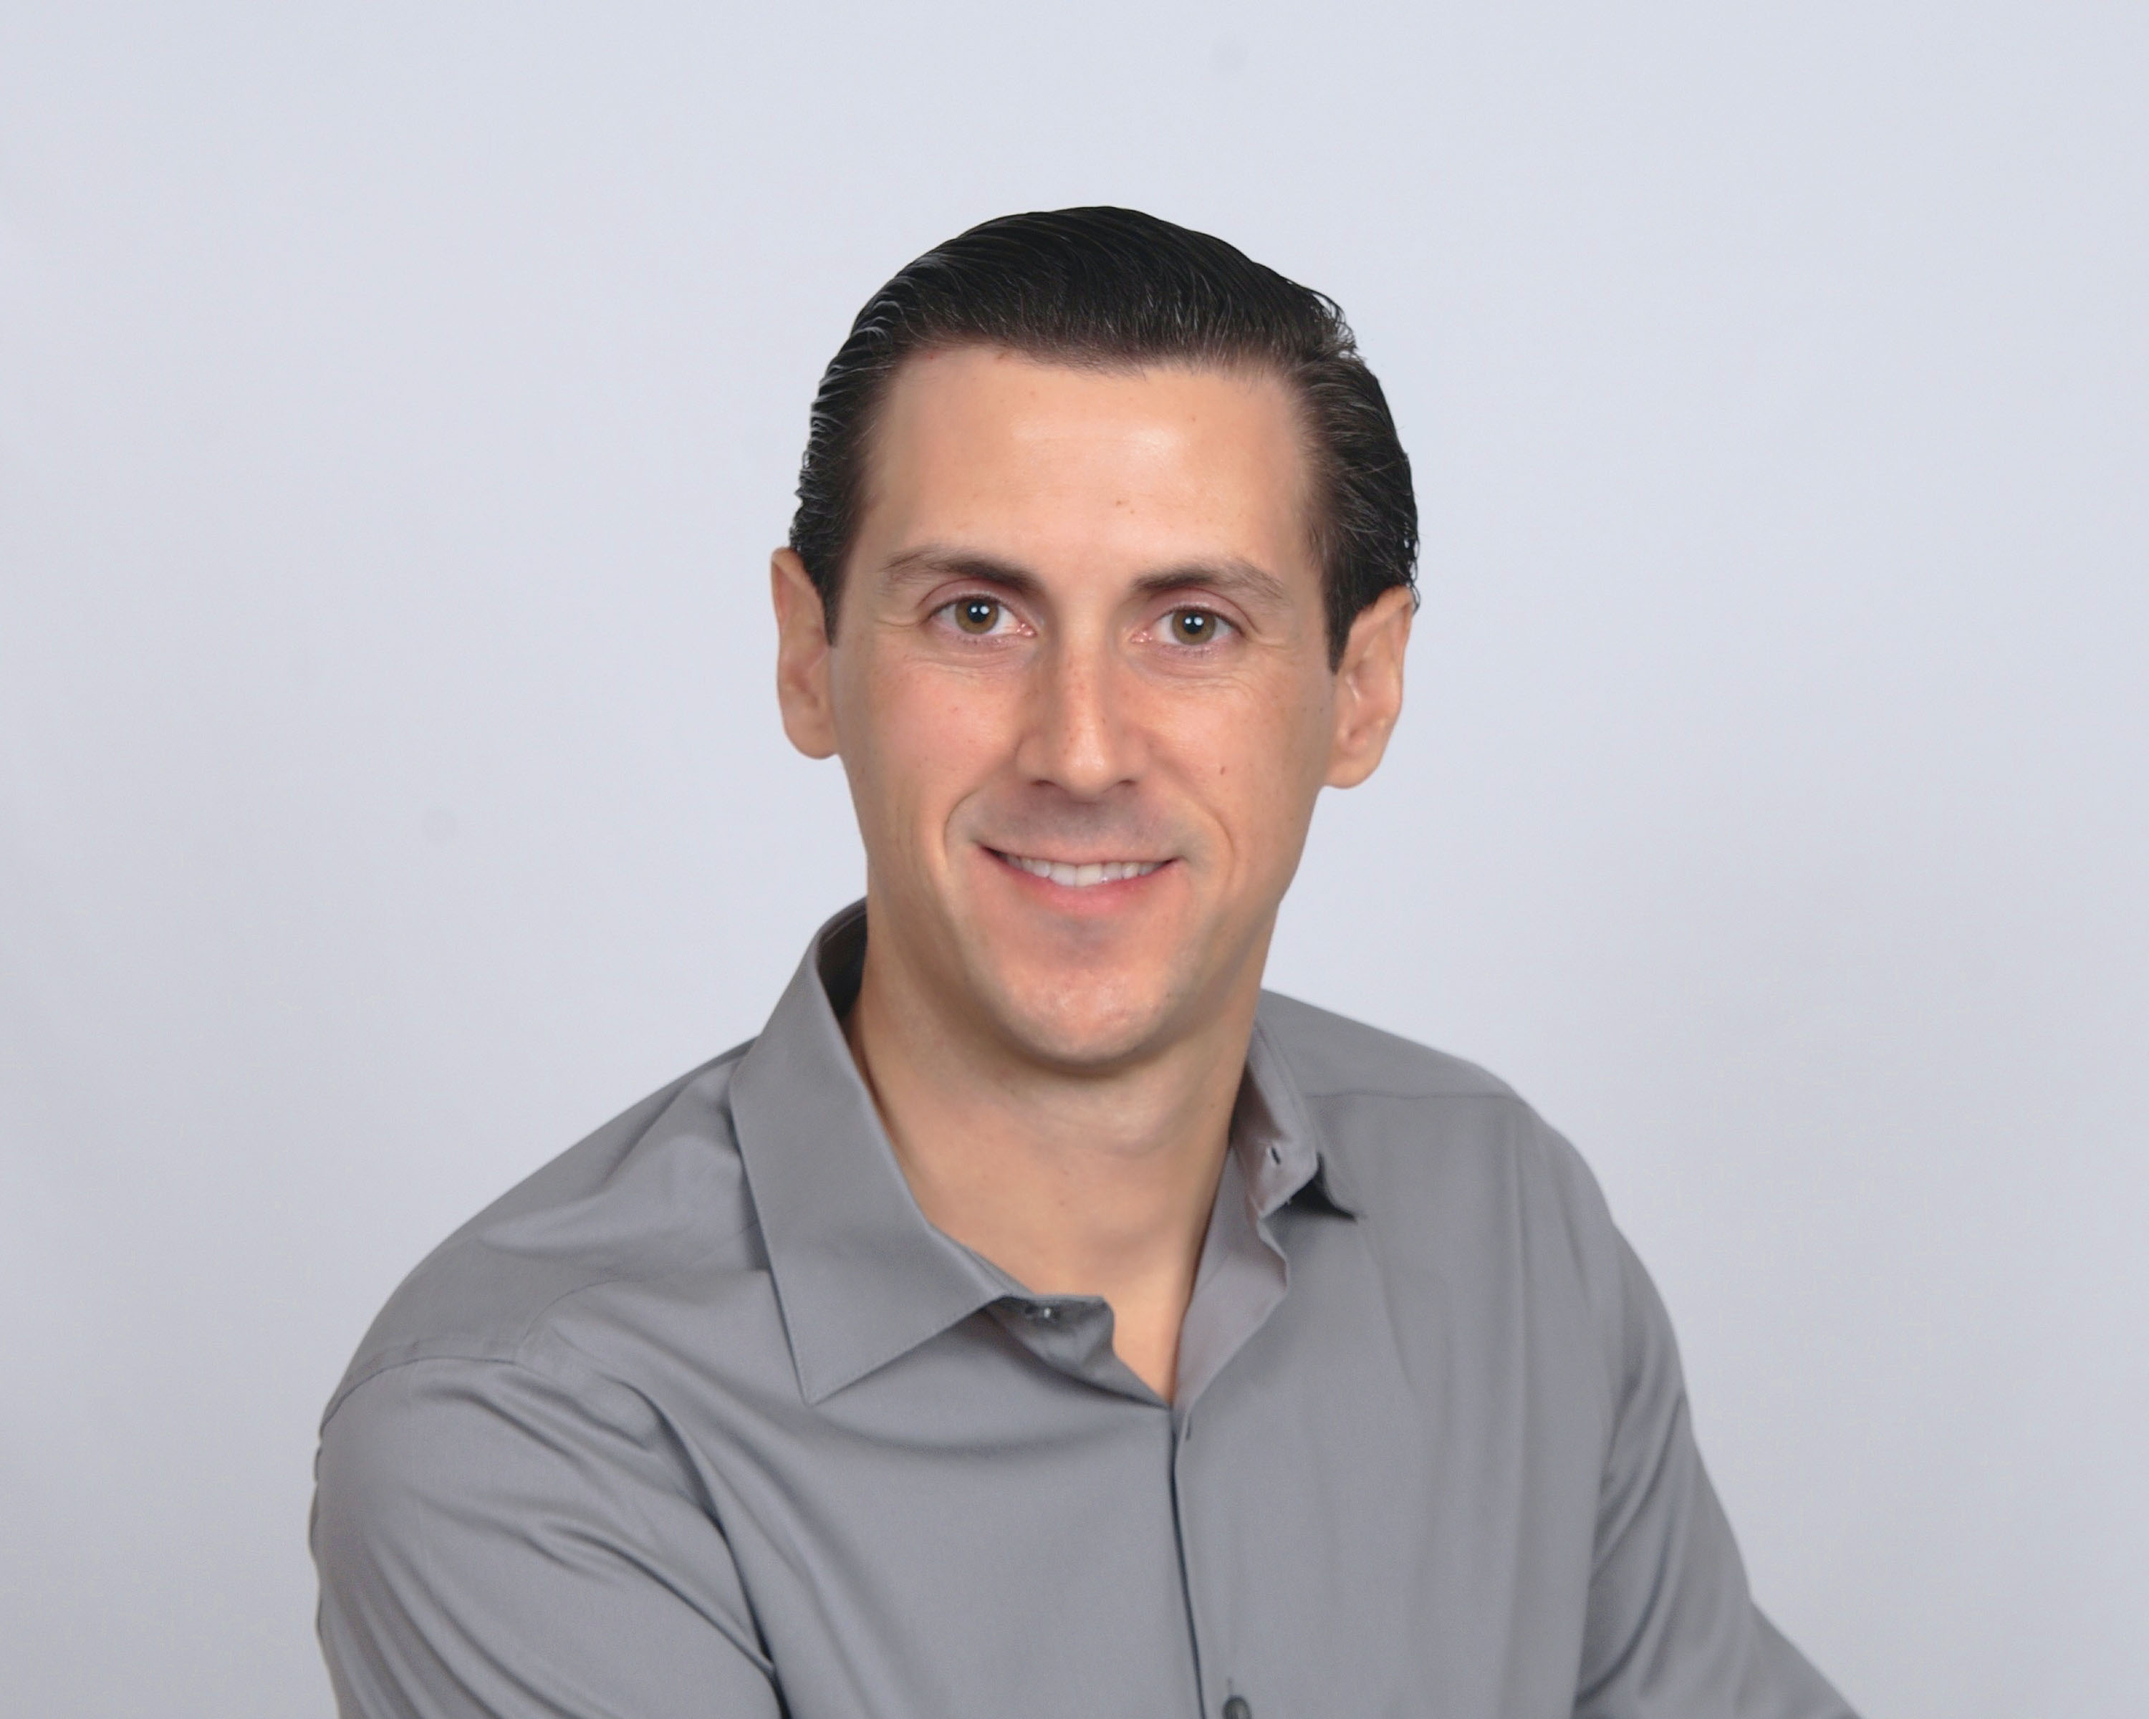
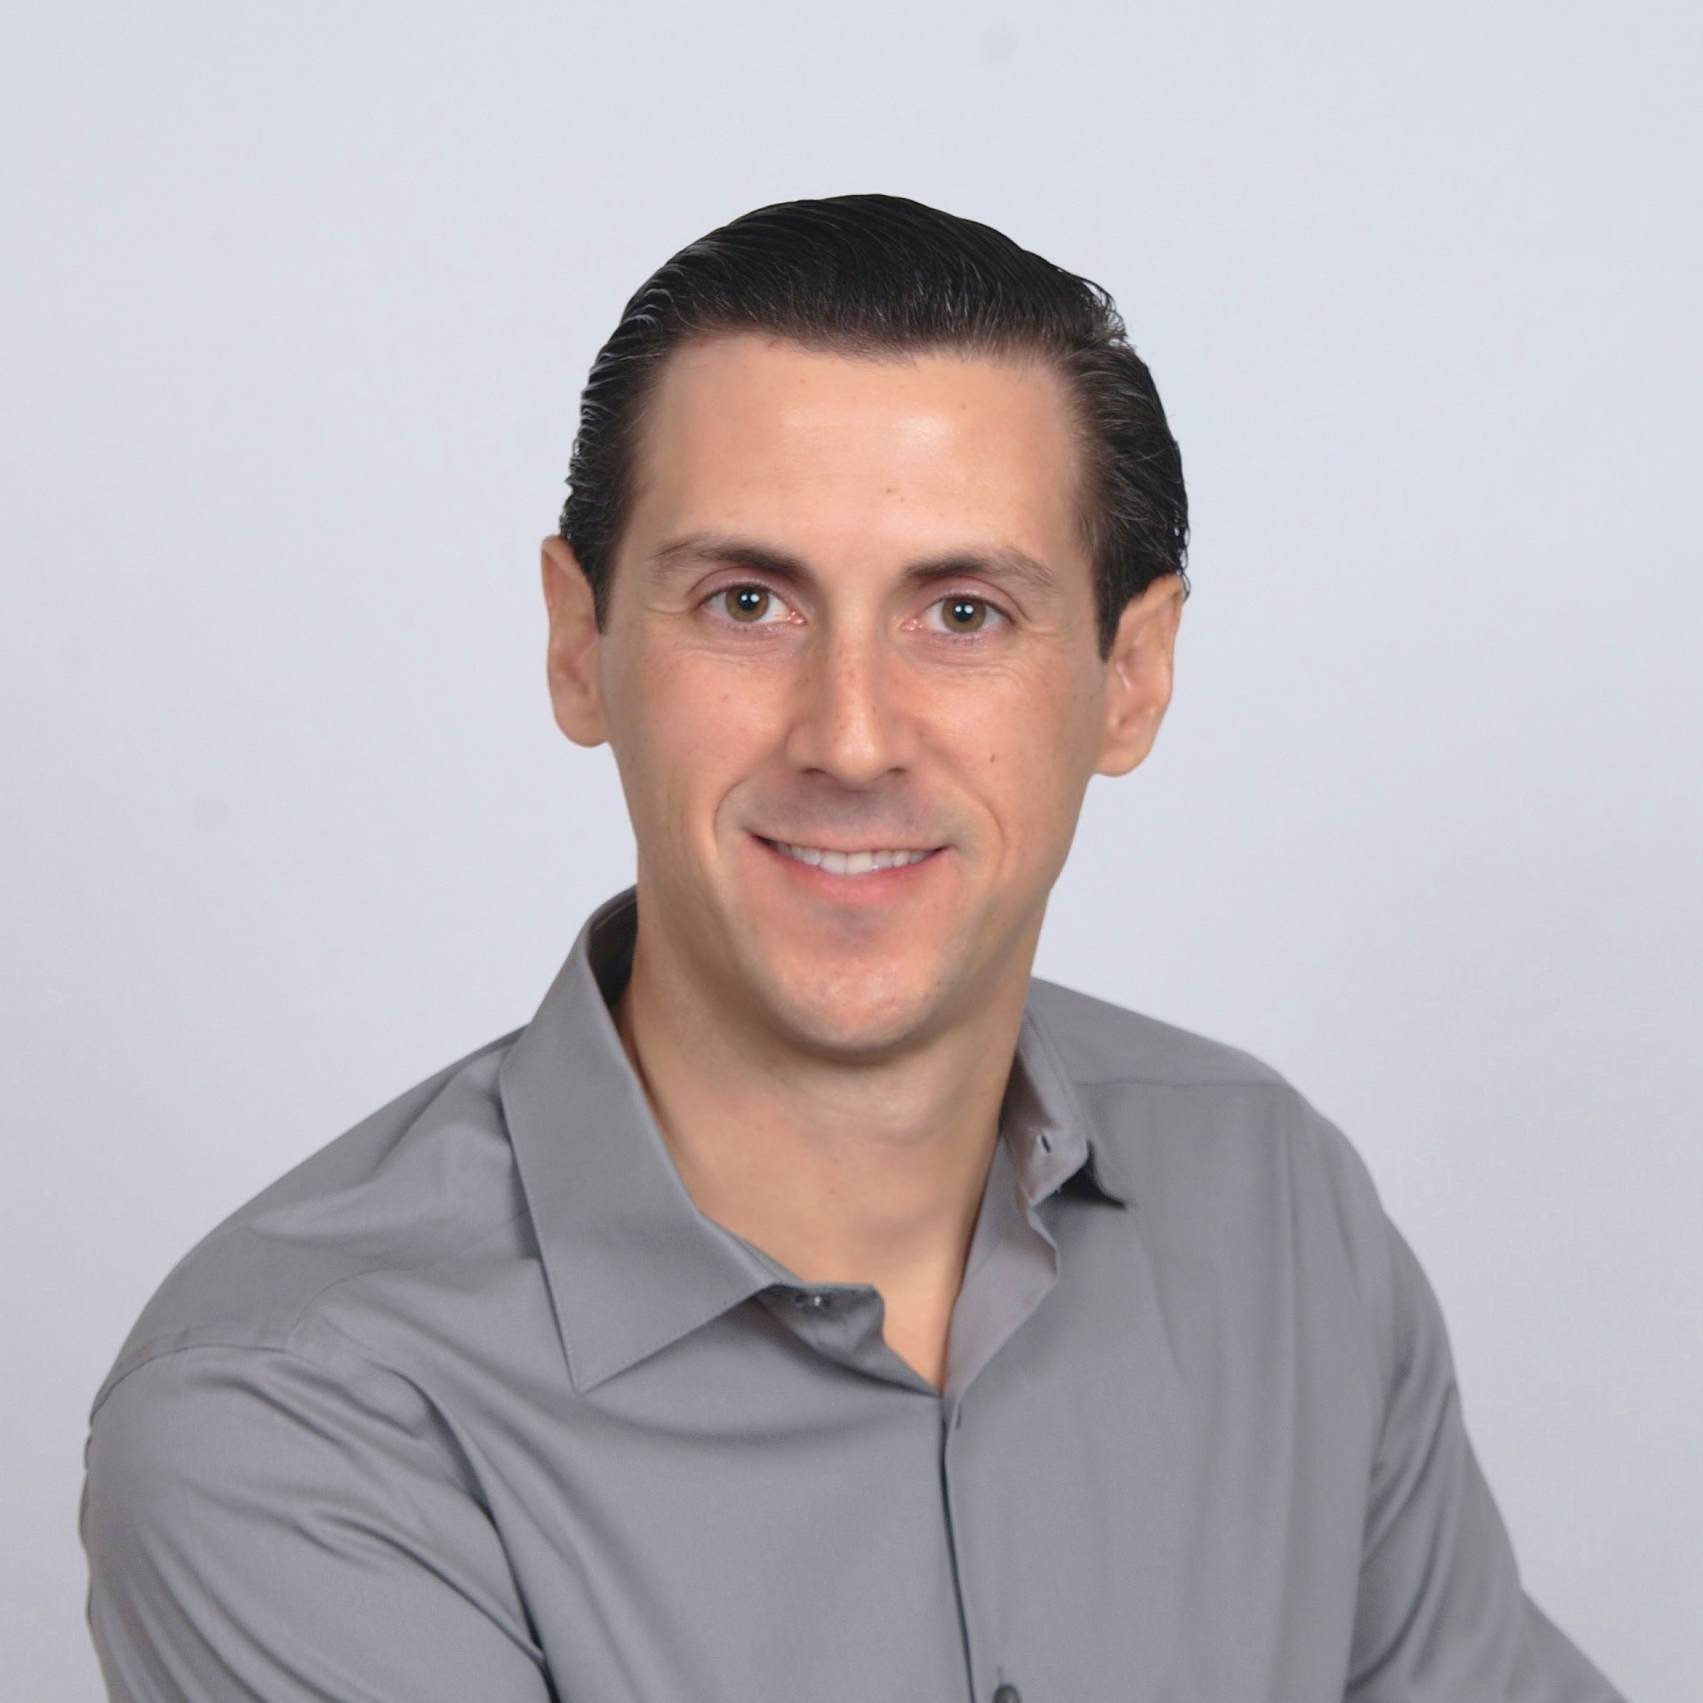
finished

Changed region(s): [[0.0311, 0.0934, 0.9651, 1.0], [0.5292, 0.4047, 0.5604, 0.467]]

diff --git a/src/layout/Body.jsx b/src/layout/Body.jsx
@@ -65,7 +65,7 @@ function Body() {
             <div className='projects' id='project1'>
               <div className='projects_title'>
                 {' '}
-                1- PORTFOLIO TRACKER
+                1- INVESTMENTS TRACKER
                 <div className='unique-github'>
                   <a
                     target='_target'
@@ -78,8 +78,9 @@ function Body() {
               <div className='text'>
                 ADD STOCKS AND TRACK YOUR PORTFOLIO <br />
                 <span style={{ fontSize: '1.4rem' }}>
-                  Applied useState to create a dynamic table, consumed a restful
-                  API to get stocks data and sorting and validation were added.
+                  Applied useState to create a dynamic table. Consumed a restful
+                  API to get stocks data. Added sorting and validation to
+                  improve user experience.
                 </span>
               </div>
               <br></br>
@@ -102,17 +103,15 @@ function Body() {
               <div className='text'>
                 SLIDER 1 - Click to change image <br />
                 <span style={{ fontSize: '1.4rem' }}>
-                  Sliders are becoming more important to show more data within
-                  the same page. Created a slider using the CSS opacity
-                  property.
+                  Created a slider using the CSS opacity property.
                 </span>
               </div>
               <Slider />
               <div className='text'>
                 SLIDER 2 - Drag to slide images <br />
                 <span style={{ fontSize: '1.4rem' }}>
-                  Copied Amazon.com Slider to show products for Tablet or Mobile
-                  using React's framer-motion library.
+                  Replicated Amazon.com Slider to show products for Tablet or
+                  Mobile using React's framer-motion library.
                 </span>
               </div>
               <Slider2 />
@@ -134,8 +133,8 @@ function Body() {
               <div className='text'>
                 PLAY TIC-TAC-TOE AGAINST THE PC <br />
                 <span style={{ fontSize: '1.4rem' }}>
-                  Created a Tic-Tac-Toe using Javascript. If you win, computer
-                  will have a extra turn to tie !
+                  Created the game using Javascript. If you win, the computer
+                  will have an extra turn to tie the game !
                 </span>
               </div>
               <br></br>
@@ -158,10 +157,9 @@ function Body() {
               <div className='text'>
                 CLOTHING STORE <br />
                 <span style={{ fontSize: '1.4rem' }}>
-                  Using React created an online clothing store. You can create
-                  users, log in, log out, add and remove item from your shopping
-                  cart and navigate different categories. In this project
-                  useContext and useReducer were used.
+                  Created an online clothing store using React. Added user
+                  registration and login capabilities. Utilized useContext and
+                  useReducer as state management for the shopping cart contents.
                 </span>
               </div>
               <div style={{ display: 'flex', justifyContent: 'center' }}>
@@ -184,7 +182,7 @@ function Body() {
                   <div className='other-text'>
                     <h3>GITHUB FINDER</h3>
                     <h3 style={{ lineHeight: '15px' }}>
-                      Used useContext to avoid prop-drilling and used axios to
+                      Used useContext to avoid prop-drilling and axios to
                       request the data
                     </h3>
                     <p className='other-view'>

diff --git a/src/App.css b/src/App.css
@@ -773,7 +773,7 @@ a:active {
 }
 .profileB {
   width: 400px;
-  height: 600px;
+  height: 150px;
   display: flex;
   justify-content: flex-start;
   margin-left: 30px;
@@ -786,7 +786,8 @@ a:active {
 }
 
 .profileImage {
-  width: 120px;
+  width: 100px;
+  height: 100px;
 
   border-radius: 50%;
 }
